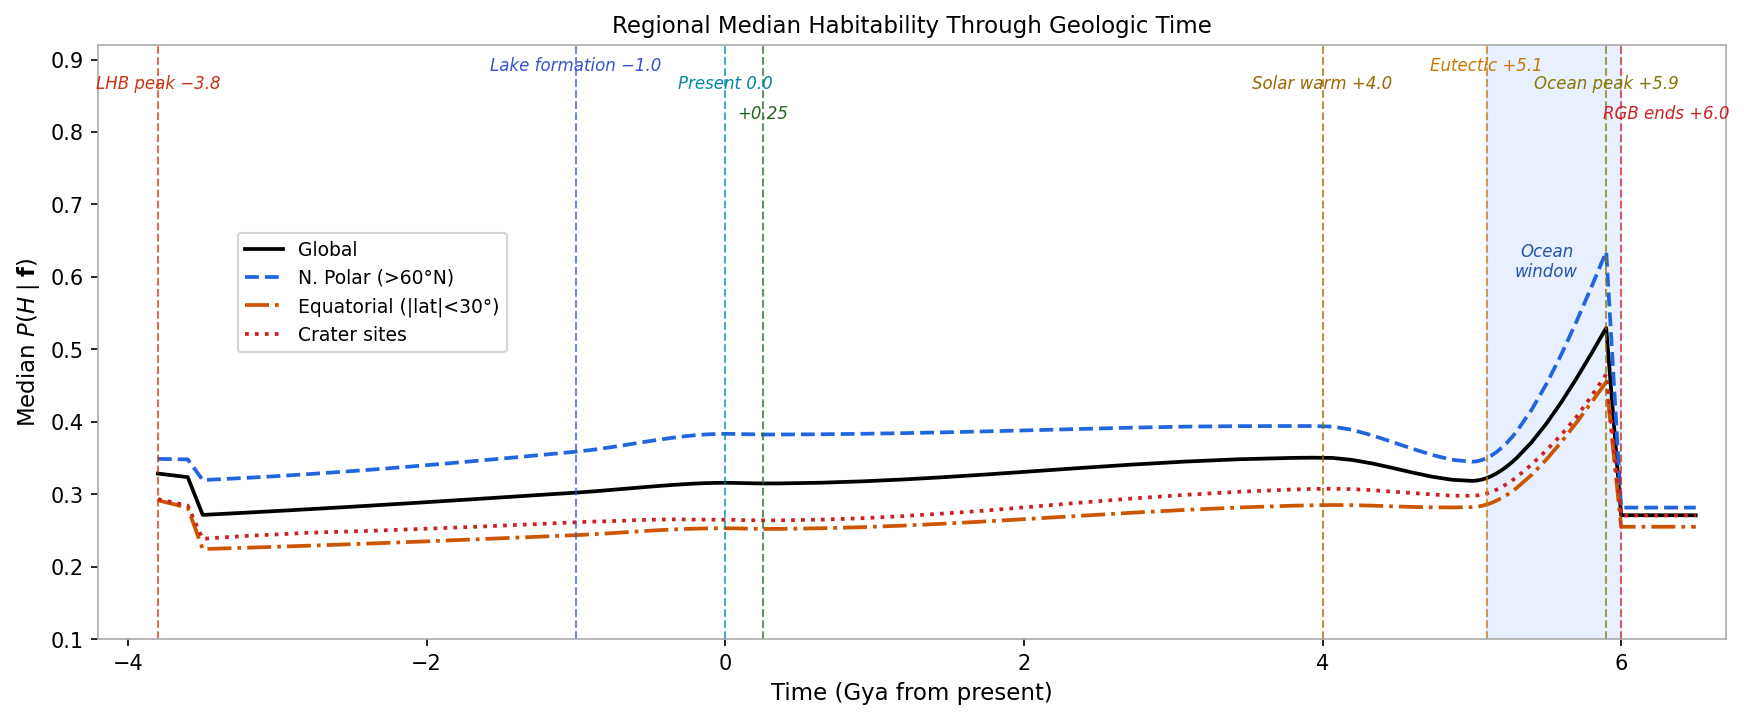
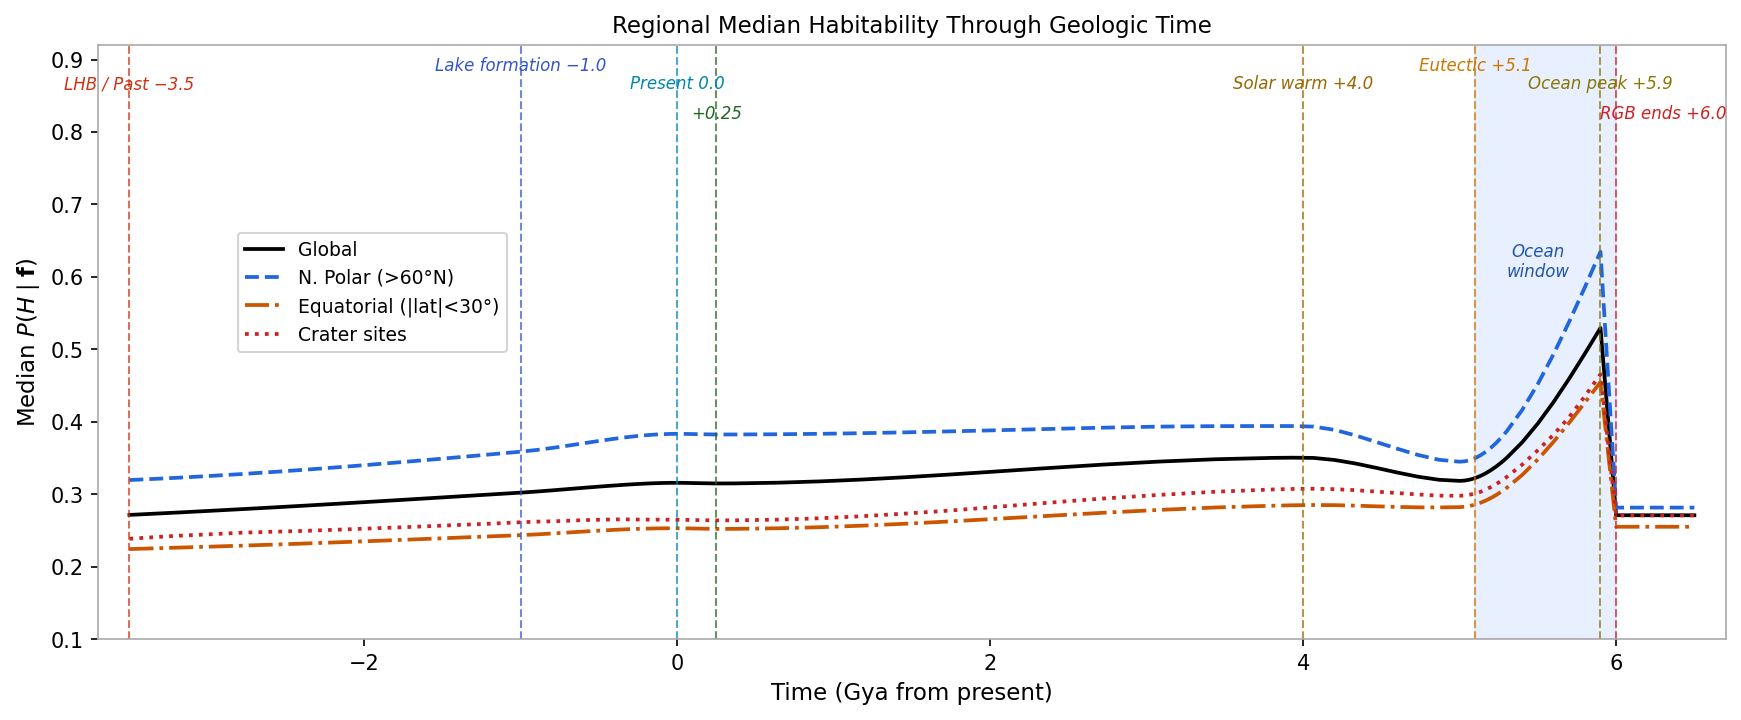
temporal trend: start at the -3.5 Past anchor (drop pre-anchor extrapolation bump)
The figure's -3.8/-3.6 points were extrapolated from the impact-flux model ahead
of the earliest data-constrained posterior (the Past anchor at -3.5 Gya). They
overshoot the anchor by ~0.05 (global 0.328/0.324 vs the -3.5 anchor 0.271),
producing a spurious "high at LHB then sudden drop" with a discontinuous step at
-3.5 -- a model/anchor seam, not physics, and inconsistent with the Results text
("rises from 0.271 at the LHB").

Fix (generate_temporal_trend.py): trim epochs < -3.5 so the trend starts at the
Past anchor; relabel the marker "LHB peak -3.8" -> "LHB / Past -3.5"; tighten
xlim to (-3.7, 6.7). The global curve now begins at ~0.271 at -3.5, matching the
text, and rises smoothly through Lake Formation to the present. Regenerated and
synced thesis/images/temporal_habitability_trend.png.

diff --git a/scripts/generate_temporal_trend.py b/scripts/generate_temporal_trend.py
@@ -144,6 +144,17 @@ if npy_dir.exists() and len(list(npy_dir.glob("*.npy"))) > 0:
     epochs = epochs[order]
     for rname in region_medians:
         region_medians[rname] = np.array(region_medians[rname])[order]
+
+    # Trim pre-anchor extrapolated frames.  The earliest data-constrained
+    # posterior is the Past anchor at -3.5 Gya; frames before it (-3.8, -3.6)
+    # are extrapolated from the impact-flux model ahead of any anchor, overshoot
+    # it by ~0.05, and create a spurious pre-anchor bump with a discontinuous
+    # step down at -3.5.  Start the trend at the Past anchor so the figure
+    # matches the data and the Results text ("0.271 at the LHB").
+    _keep = epochs >= -3.5 - 1e-6
+    epochs = epochs[_keep]
+    for rname in region_medians:
+        region_medians[rname] = region_medians[rname][_keep]
 else:
     # Fallback: use anchor posteriors + linear interpolation
     print("Per-frame posteriors not found. Using anchor posteriors + interpolation.")
@@ -299,7 +310,7 @@ ax.text(5.5, 0.60, "Ocean\nwindow", ha="center", fontsize=8, color="#2255aa", st
 # staggered to two depth levels (-0.06 and -0.14 axis fraction)
 # so they do not overlap each other or the x-tick labels.
 EVENTS = [
-    (-3.8, "#cc3311", "LHB peak −3.8",        0.95),
+    (-3.5, "#cc3311", "LHB / Past −3.5",      0.95),
     (-1.0, "#3355cc", "Lake formation −1.0",  0.98),
     ( 0.0, "#0088aa", "Present 0.0",          0.95),
     ( 0.25,"#226622", "+0.25",                0.90),
@@ -316,7 +327,7 @@ for xv, col, label, yoff in EVENTS:
             ha="center", va="top",
             fontsize=8, color=col, style="italic")
 
-ax.set_xlim(-4.2, 6.7)
+ax.set_xlim(-3.7, 6.7)
 ax.set_ylim(0.10, 0.92)   # raised top so N-polar curve never clips against title
 ax.set_xlabel("Time (Gya from present)", color="black", fontsize=11)
 ax.set_ylabel("Median $P(H \\mid \\mathbf{f})$", color="black", fontsize=11)
